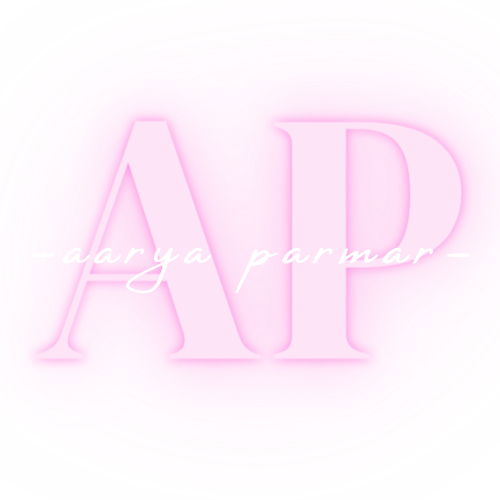
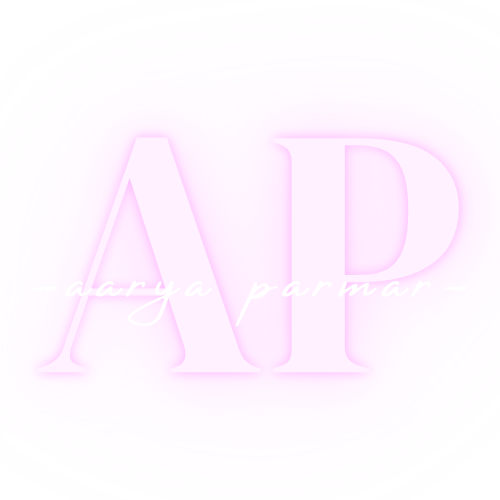
Added toggle and second style feature

diff --git a/style2.css b/style2.css
@@ -1,0 +1,283 @@
+@import url('https://fonts.googleapis.com/css?family=Courgette');
+*{
+    margin: 0;
+    padding: 0;
+    font-family: 'Courgette','Poppins' , sans-serif;
+    box-sizing: border-box;
+
+}
+body{
+    background: #f5f5dc;
+    color: #040404;
+}
+#header{
+    width: 100%;
+    height: 100px;
+    background-color: #f5f5dc;
+    padding: 0; 
+}
+.container{
+    padding: 0px 10%;
+
+}
+nav{
+    display: flex;
+    align-items: center;
+    justify-content: space-between;
+    flex-wrap: wrap;
+  
+}
+.logo {
+    background-image: url('images/APFB.png');
+    width: 120px;
+    height: 120px; 
+    background-size: contain;
+    background-repeat: no-repeat;
+    background-position: center;
+}
+
+
+/* the navs are to create that pink line under the top nav buttons */
+nav ul li{
+    display: inline-block;
+    list-style: none;
+    margin: 10px 20px;
+}
+nav ul li a{
+    color: #080808;
+    text-decoration: none;
+    font-size: 23px;
+    position: relative;
+}
+nav ul li a::after{
+    content: '';
+    width: 0;
+    height: 3px;
+    background: #274E13;
+    position: absolute;
+    left: 0;
+    bottom: -6px;
+    transition: 0.5s;
+}
+nav ul li a:hover::after{
+    width: 100%
+}
+
+h1, h2, h3 {
+    text-align: center;
+    margin: 0;
+    padding: 0;
+}
+
+h1 {
+    margin-top: 0px; 
+    font-size: 3em;
+    color: #274E13;
+    
+}
+
+h2 { /* reates space btwn h1 and h2*/
+    margin-top: 10px; 
+    font-size: 1.5em;
+    color: #274E13;
+
+
+}
+h3 { /* reates space btwn h2 and h3*/
+    margin-top: 10px; 
+    color: #274E13;
+}
+
+
+p { /* creates space btwn paragraphs */
+    margin-bottom: 20px; 
+}
+/* pdf box dimensions */
+.fullscreen-container {
+    display: flex;
+    justify-content: center;
+    align-items: center;
+    min-height: 100vh;
+    background-color: #274E13;
+}
+
+/* pdf box dimensions */
+.pdf-container {
+    width: 80%; 
+    height: 90vh; 
+    background-color: #fff; 
+    box-shadow: 0 0 10px rgba(0, 0, 0, 0.1); 
+}
+
+/* creating the pdf box */
+.pdf-container iframe {
+    width: 100%;
+    height: 100%;
+    border: none; 
+}
+
+/* style to create the background of the landing page with that pic */
+.name-background {
+    position: relative; 
+    background-image: url('images/forest-background.jpg'); 
+    background-size: cover; 
+    background-position: center center; 
+    background-repeat: no-repeat; 
+    min-height: 600px; 
+    color: #fff; 
+    display: flex; 
+    flex-direction: column; 
+    align-items: center; 
+    justify-content: center; 
+    border-radius: 10px; 
+    text-align: center; 
+    padding: 20px;
+}
+
+.name-background h1, /* keeps text on top of pic in the landing page */
+.name-background h2 {
+    position: relative; 
+    z-index: 1; 
+    margin: 0; 
+}
+
+.footer { /* creates footer div */
+    background-color: #f5f5dc; 
+    color: #000000; 
+    padding: 10px 0; 
+    text-align: center;
+    width: 100%; 
+    position: relative; 
+    clear: both;  /* added this so the icons stay at bottom of page even in about me section*/ 
+    flex-shrink: 0;  /* added this so the icons stay at bottom of page even in about me section*/
+}
+
+.footer a { /* space icons */
+    margin: 0 10px; 
+}
+
+.footer-icon { /* sizes footer icons */
+    width: 30px;
+    height: 30px;
+    vertical-align: middle; 
+    transition: transform 0.3s, box-shadow 0.3s;
+}
+
+.footer-icon:hover { /* this style creates the enlarging and glowing effect in footer */
+    transform: scale(1.1); 
+    box-shadow: 0 0 20px rgba(39, 78, 19, 0.8); 
+}
+
+.about-container {
+    display: flex;
+    flex-direction: row-reverse; /* This will place the image on the right and text on the left */
+    align-items: center;
+    justify-content: space-between;
+    padding: 20px;
+    width: 100%;
+}
+
+.about-text {
+    max-width: 60%;
+    margin-right: 20px; /* Space between text and image */
+}
+
+.about-image {
+    max-width: 500px;
+    margin-left: 20px; /* Space between image and text */
+}
+
+.about-image img {
+    width: 100%;
+    height: auto;
+    border-radius: 10px;
+}
+
+.about-text h1 { /* makes sure that header looks proper */
+    margin-top: 0; 
+}
+
+.about-text p { /* spaces line in abt me txt */
+    line-height: 1.6; 
+}
+
+.service-images { /* creates main container for images in service to be in a row */
+    display: flex; 
+    justify-content: center; 
+    gap: 20px; 
+    margin: 0 auto; 
+    padding: 20px 0; 
+}
+
+.image-container { /* centers images and makes sure there all same ish size */
+    text-align: center; 
+    max-width: 30%;
+}
+
+.image-container img { /* adjusts images on service page  */
+    max-width: 100%; /
+    max-height: 200px; 
+    width: auto; 
+    height: auto;
+    object-fit: cover; 
+}
+
+.caption { /* styles captions  */
+    margin-top: 10px; 
+    font-size: 16px; 
+    color: #274E13; 
+}
+
+.contact-icons { /* aligns and spaces icon */
+    text-align: center; 
+    margin: 50px 0; 
+}
+
+.contact-icon { /* adjusts and sizes icons on contact page and adds transtion for hover */
+    width: 90px; 
+    height: auto;
+    margin: 0 20px; 
+    vertical-align: middle; 
+    transition: transform 0.3s, box-shadow 0.3s; 
+}
+
+.contact-icon:hover { /* this style creates the enlarging and glowing effect on contact page */
+    transform: scale(1.1); 
+    box-shadow: 0 0 20px rgba(39, 78, 19, 0.8); 
+}
+
+#centered-text {
+    text-align: center; /* centers text on the AI Generated page*/
+}
+
+
+
+.theme-toggle-container {
+    position: absolute; /* Allows for precise positioning */
+    bottom: 20px; /* Position it 20px from the bottom of the container */
+    display: flex;
+    justify-content: center;
+    width: 100%; /* Full width of the container */
+}
+
+
+.theme-toggle-container button {
+    border-radius: 12px; /* Rounded edges */
+    padding: 10px 20px; /* Adjust as needed */
+    border: none;
+    cursor: pointer;
+    font-size: 16px;
+    color: #fff;
+    background-color: #333; /* Dark background for light mode button */
+    transition: background-color 0.3s ease;
+}
+
+.theme-toggle-container .toggle-light {
+    background-color: #f5f5dc;
+    color: #274E13;
+}
+
+.theme-toggle-container .toggle-dark {
+    background-color: #000000; /* Dark background for light mode button */
+    color: #e6a9cf;
+}
